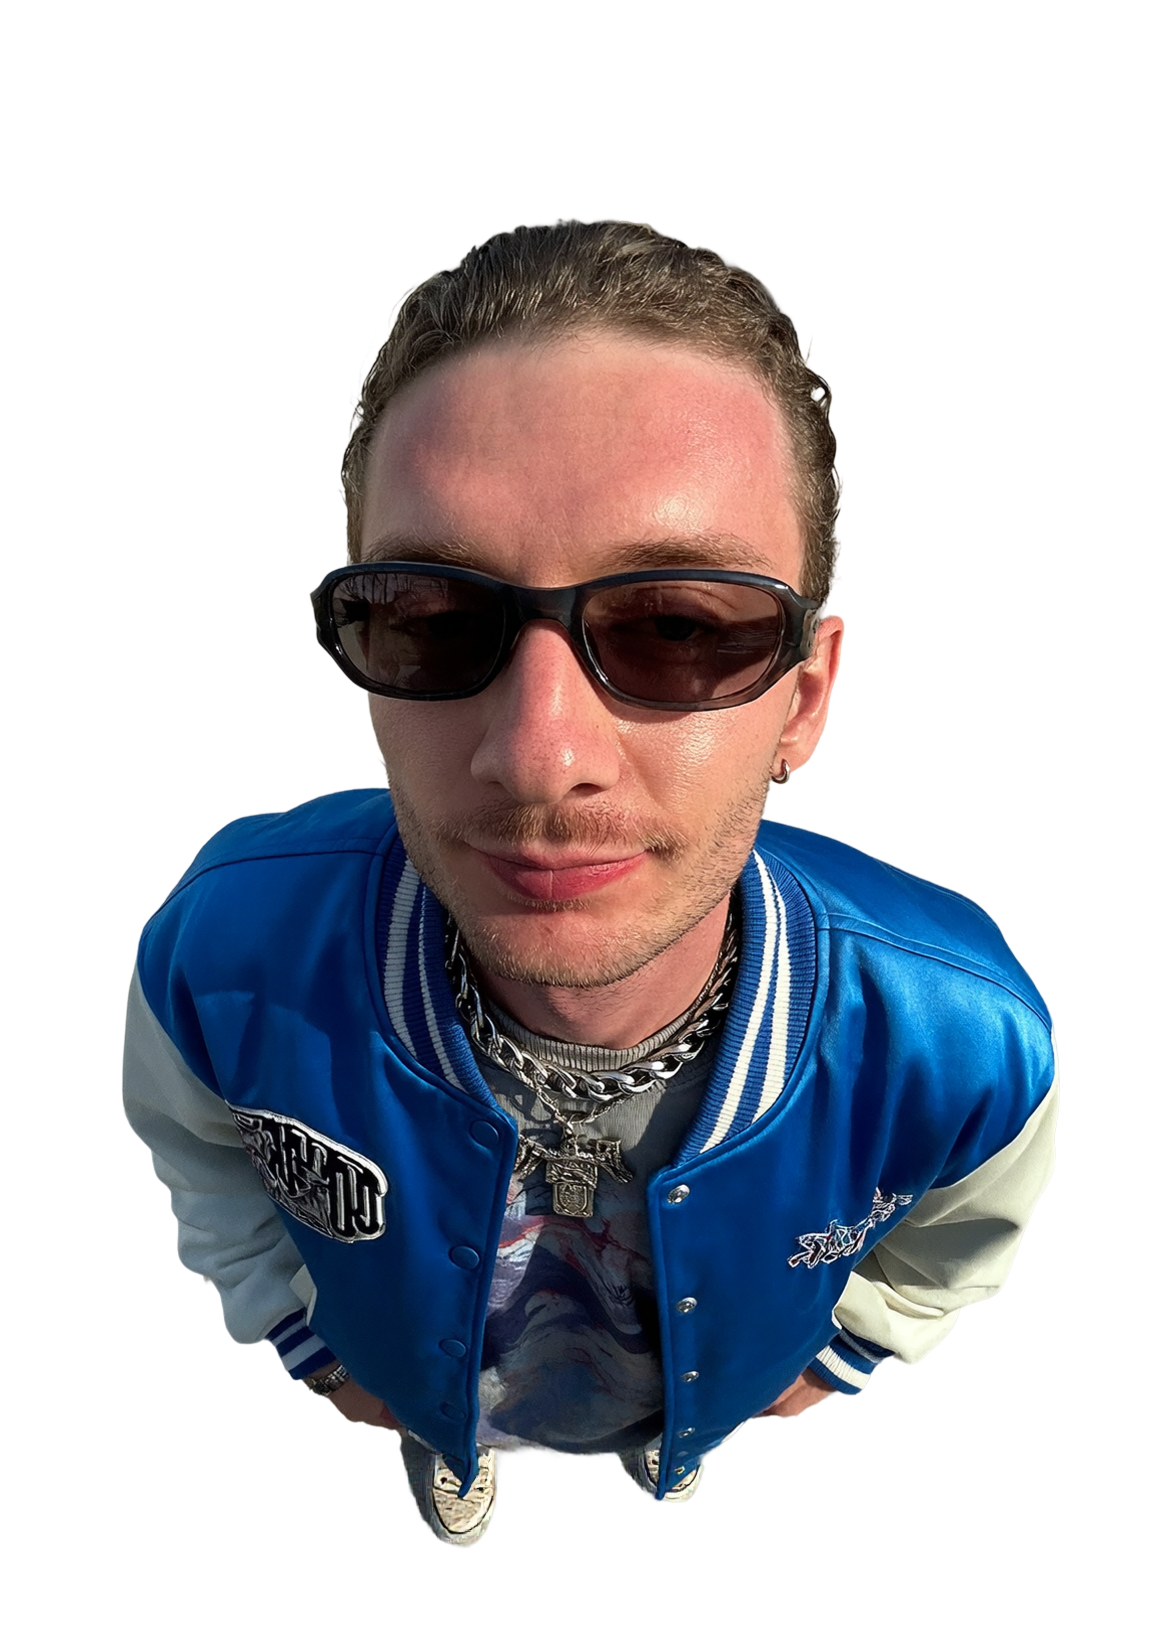
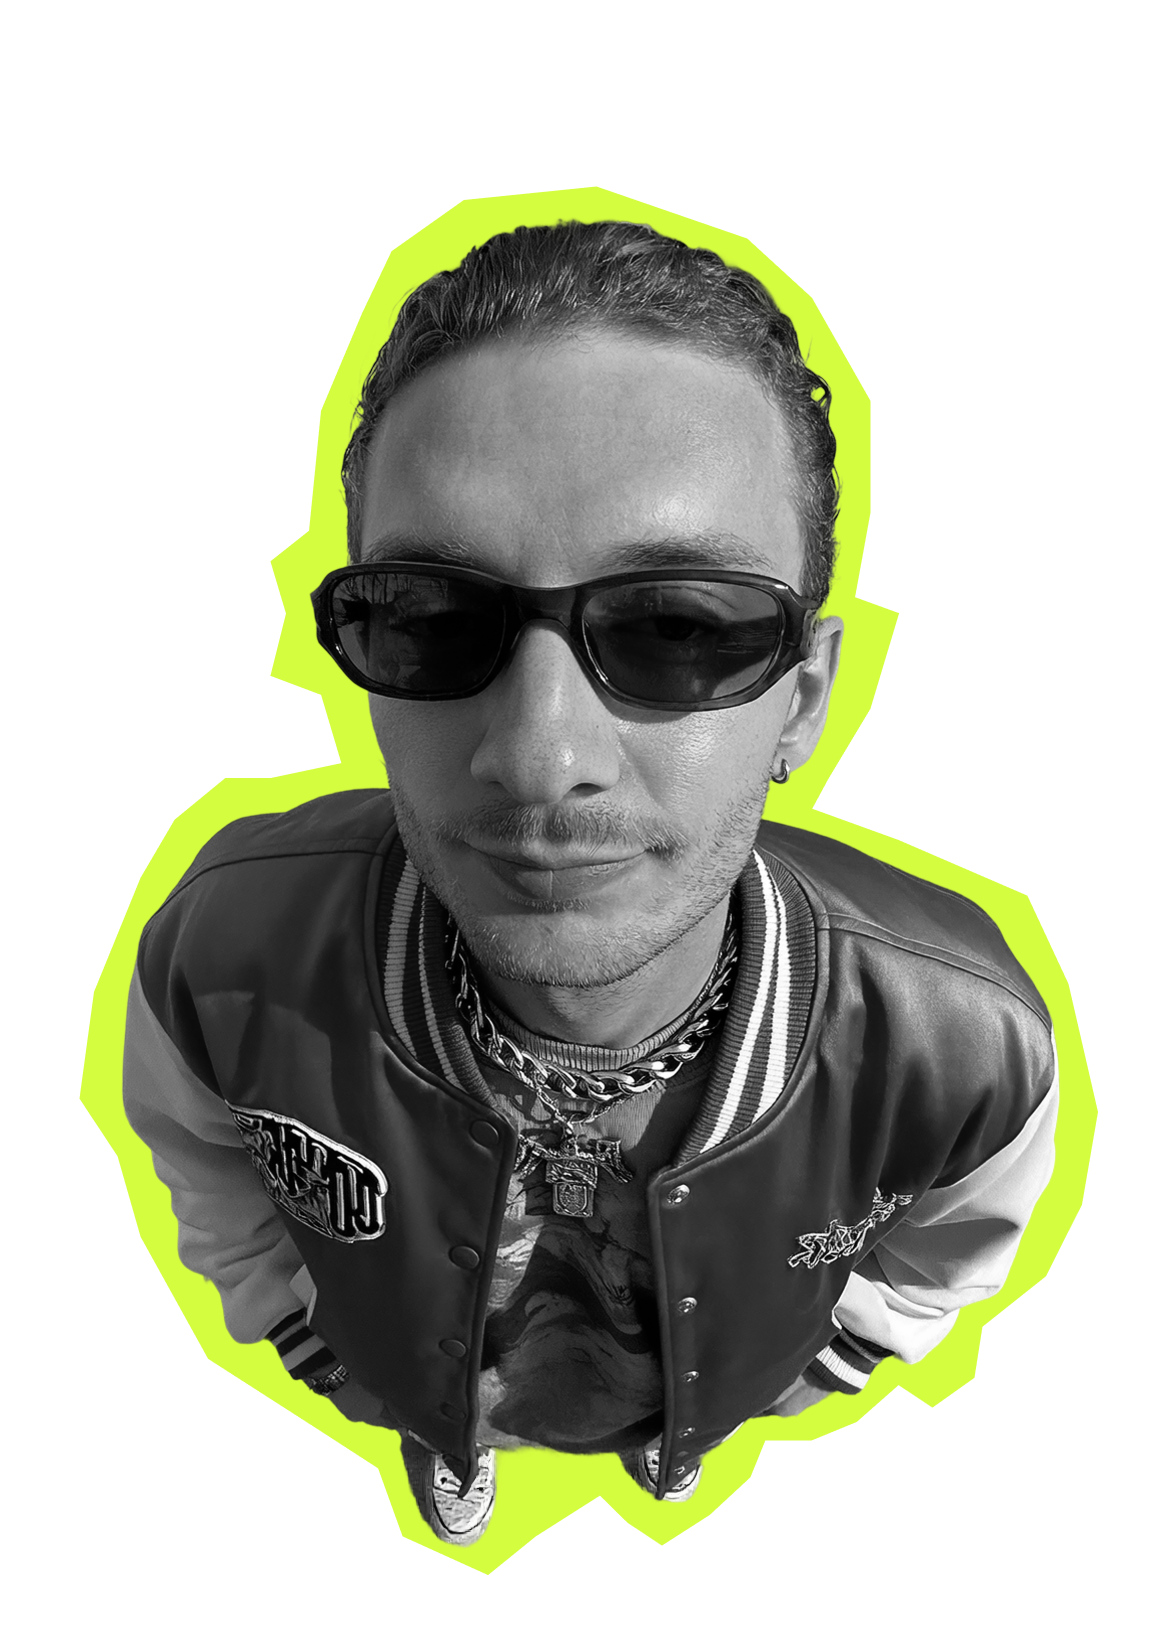
Refine styles: update hover effects for `.vanilla-tilt-creatives`, adjust `--text-h1` clamp value, and enhance hover behavior for hero media.

diff --git a/src/index.html b/src/index.html
@@ -22,7 +22,7 @@
     <!--me-->
     <div data-section="hero" id="hero" class="hero -z-2 flex min-h-dvh">
       <div class="hero-media absolute w-full lg:self-center">
-        <img src="assets/images/soma-lancet-2.png" class="aspect-auto h-dvh justify-self-end object-cover grayscale lg:h-auto lg:w-1/2" alt="hero" />
+        <img src="assets/images/soma-lancet-2.png" class="aspect-auto h-dvh justify-self-end object-cover lg:h-auto lg:w-1/2" alt="hero" />
       </div>
       <div class="z-1 flex w-full flex-col content-end justify-end gap-10 p-15 lg:flex-row lg:items-end lg:justify-between">
         <h1 class="whitespace-pre-line">{{ t('hero') }}</h1>

diff --git a/src/js/vue-components/projects.vue b/src/js/vue-components/projects.vue
@@ -1,5 +1,5 @@
 <template>
-  <div class="light:bg-(--color-black) top-0 left-0 col-span-1 flex min-h-dvh w-full flex-col justify-between gap-10 p-15 will-change-transform lg:p-15">
+  <div class="lg:light:bg-(--color-black) top-0 left-0 col-span-1 flex min-h-dvh w-full flex-col justify-between gap-10 p-15 will-change-transform lg:p-15">
     <div class="flex flex-col gap-5">
       <h3 class="light:text-(--color-white)">{{ projectName }}</h3>
       <p class="light:text-(--color-grey)">{{ projectDescription }}</p>

diff --git a/src/js/vue-components/creatives.vue b/src/js/vue-components/creatives.vue
@@ -1,6 +1,6 @@
 <template>
-  <div class="vanilla-tilt-creatives h-fit hover:z-100" :style="computedStyle">
-    <img :src="creativeSrc" alt="post-card" />
+  <div class="vanilla-tilt-creatives group h-fit hover:z-100" :style="computedStyle">
+    <img class="grayscale transition-all duration-1000 ease-in-out group-hover:grayscale-0" :src="creativeSrc" alt="post-card" />
   </div>
 </template>
 

diff --git a/src/styles/components.css b/src/styles/components.css
@@ -93,4 +93,11 @@
   nav button[aria-current="true"] circle {
     transform: scale(1);
   }
+  .vanilla-tilt-creatives {
+    transition: var(--transition);
+    box-shadow: -4px 4px 0 0 var(--color-yellow);
+  }
+  .vanilla-tilt-creatives:hover {
+    box-shadow: none;
+  }
 }

diff --git a/src/styles/core.css b/src/styles/core.css
@@ -25,7 +25,7 @@
   --color-transparent: hsl(0 0% 0% / 0);
 
   /* типографика */
-  --text-h1: clamp(3rem, 10vw, 16rem);
+  --text-h1: clamp(3rem, 12vw, 16rem);
   --leading-h1: 10vw;
   --text-h2: clamp(2.5rem, 4vw, 8rem);
   --text-h3: clamp(2rem, 3vw, 4.5rem);
